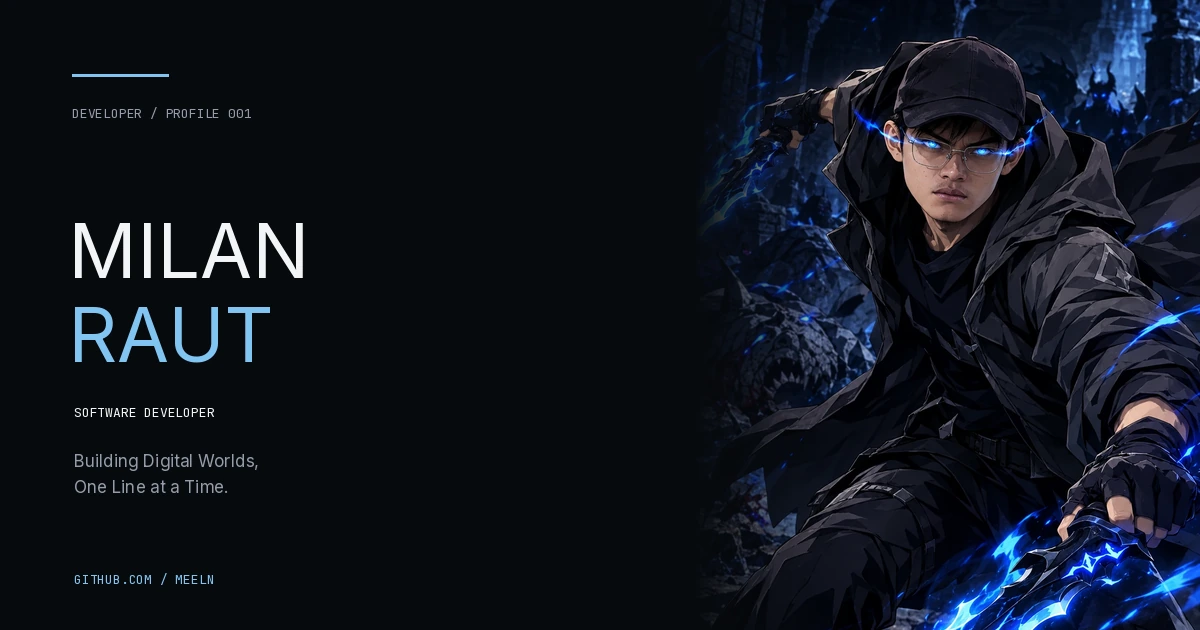
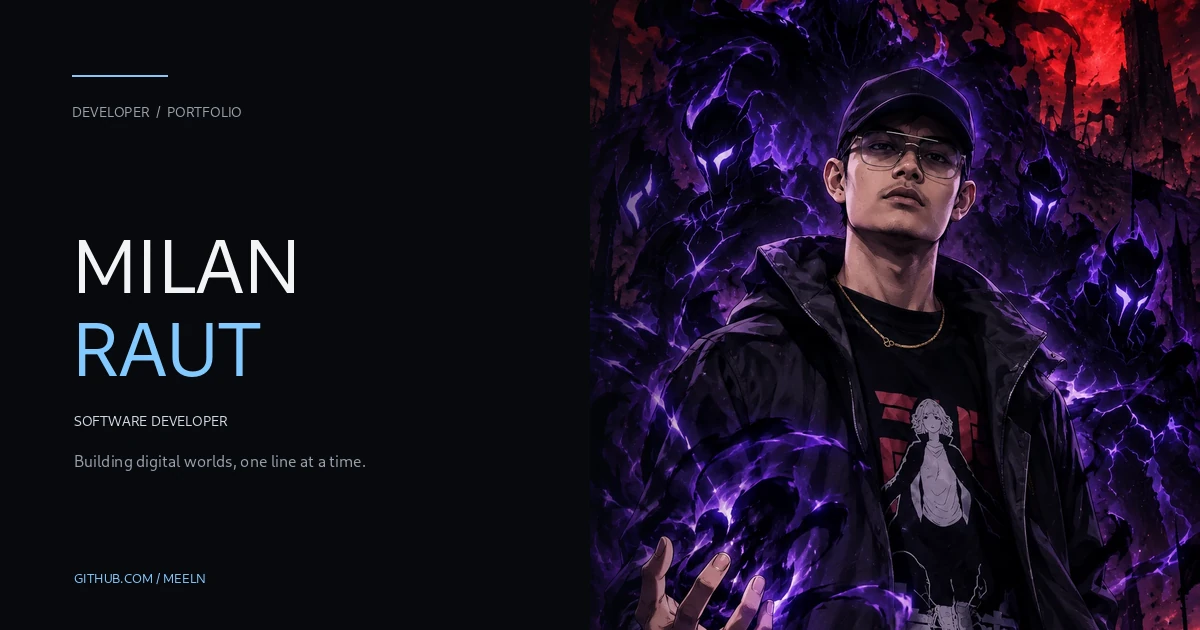
feat: add .env.example for environment variable configuration and update README for setup instructions

diff --git a/README.md b/README.md
@@ -237,13 +237,13 @@ pnpm install
 pnpm dev
 ```
 
-Open `http://localhost:3000`. To enable absolute SEO URLs during local or deployed builds, set:
+Open `http://localhost:3000`. The repository includes `.env.example`, and this checkout has a local `.env.local` configured with `NEXT_PUBLIC_SITE_URL=http://localhost:3000`. To set up another checkout, copy `.env.example` to `.env.local`. For production, replace the value in your hosting provider's environment variables with your real canonical site origin (for example, `https://your-domain.com`):
 
 ```bash
-NEXT_PUBLIC_SITE_URL=https://your-deployed-domain.example
+NEXT_PUBLIC_SITE_URL=https://your-real-domain.com
 ```
 
-The environment variable is optional for local development. Set it in the deployment provider’s build/runtime environment for canonical metadata and a populated sitemap.
+`.env.local` is ignored by Git and should not be committed. Set the production value in the deployment provider's build environment for canonical metadata, absolute Open Graph/X URLs, and a populated sitemap. Restart the development server after changing the local value.
 
 ## Validation and production
 
